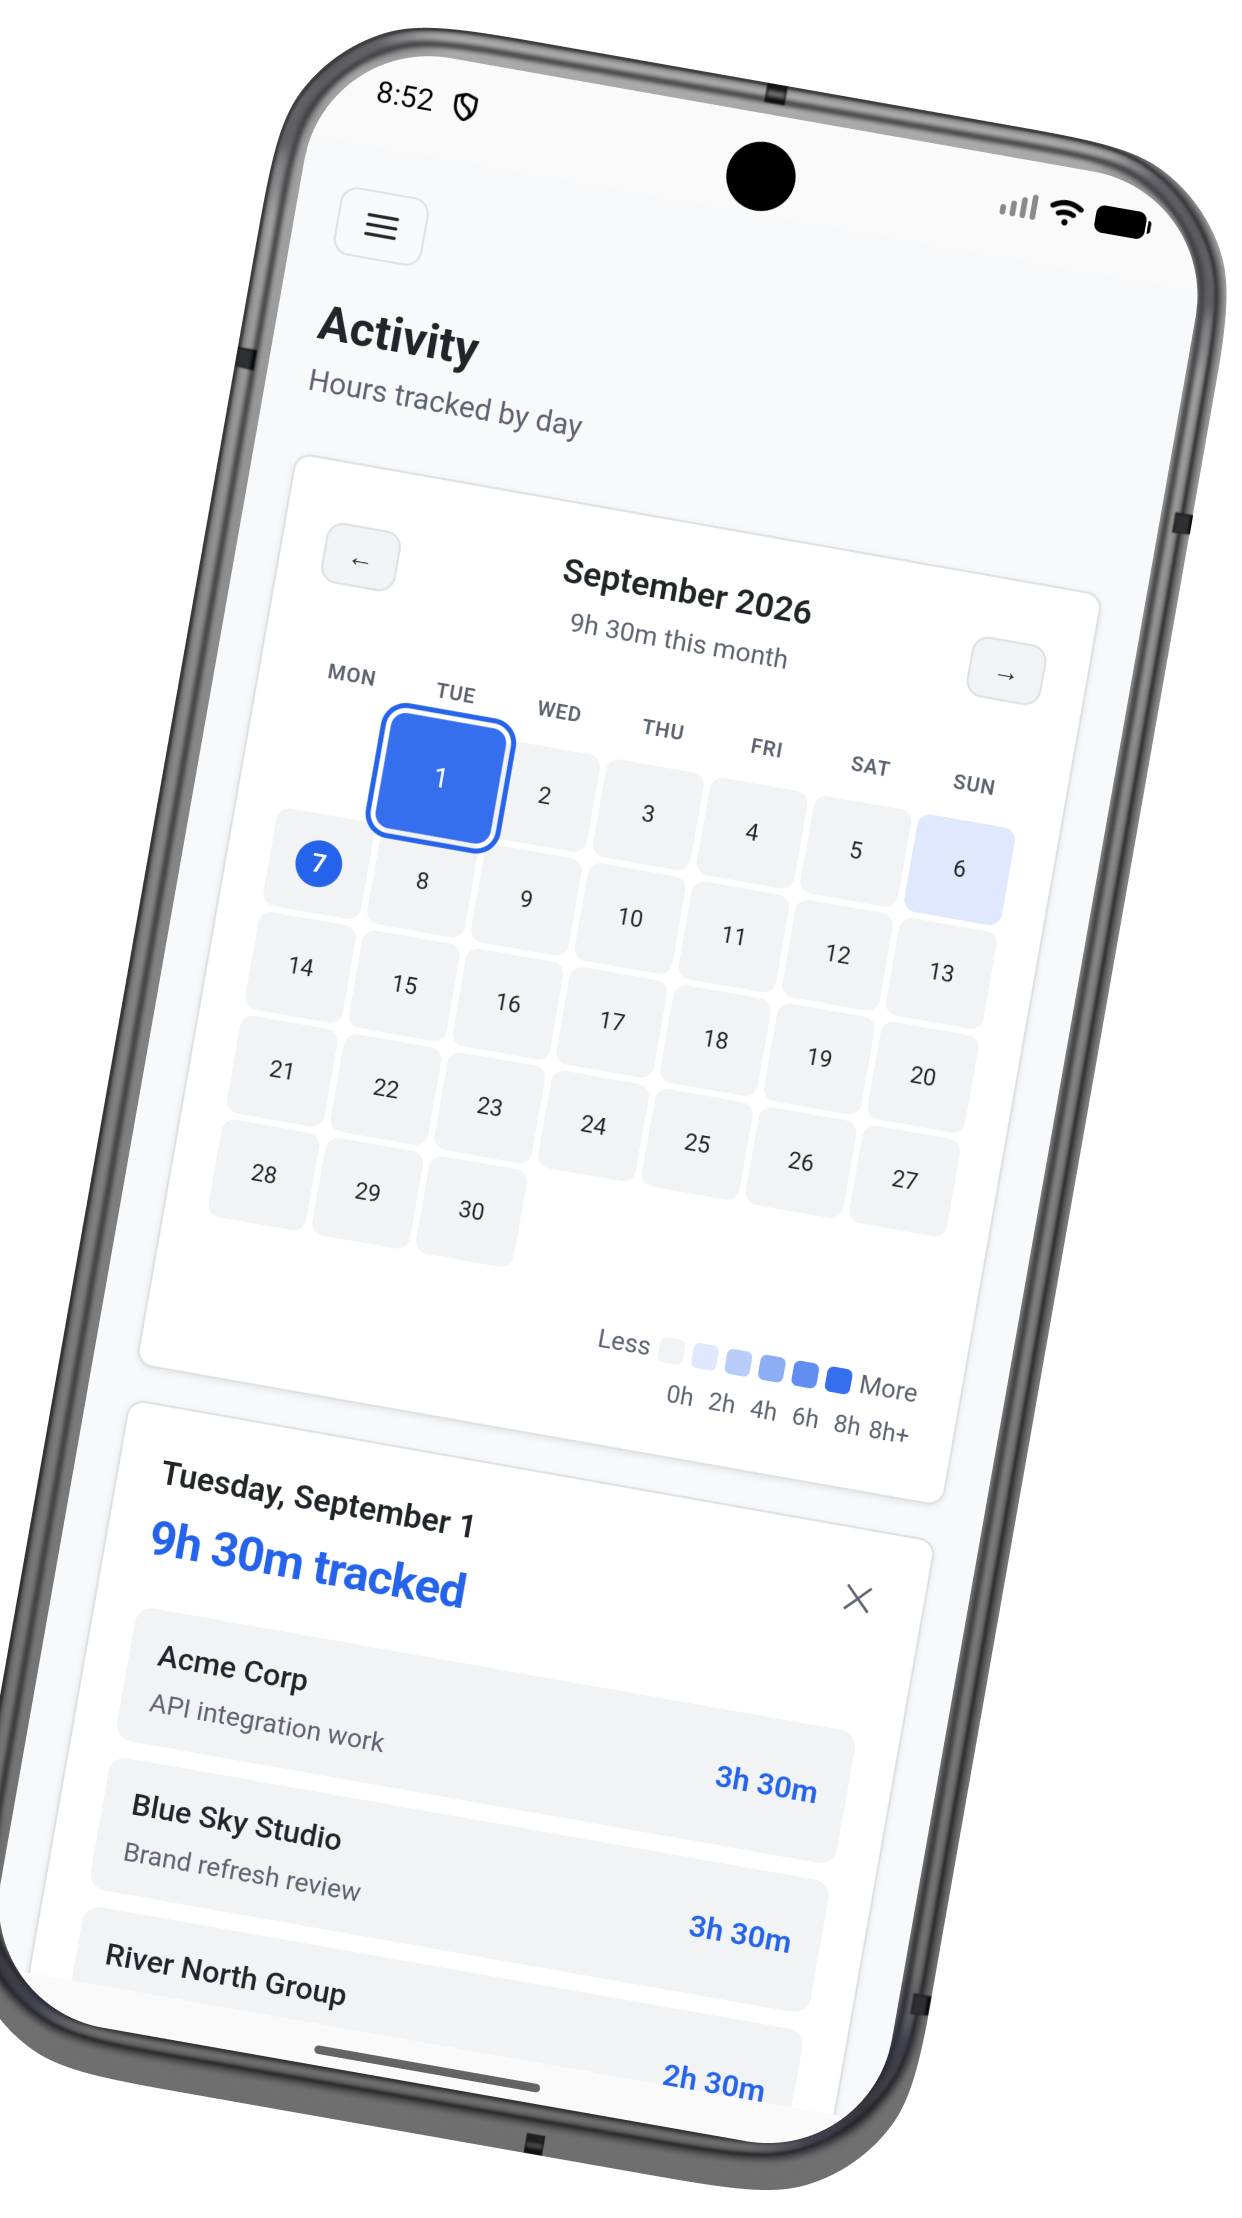
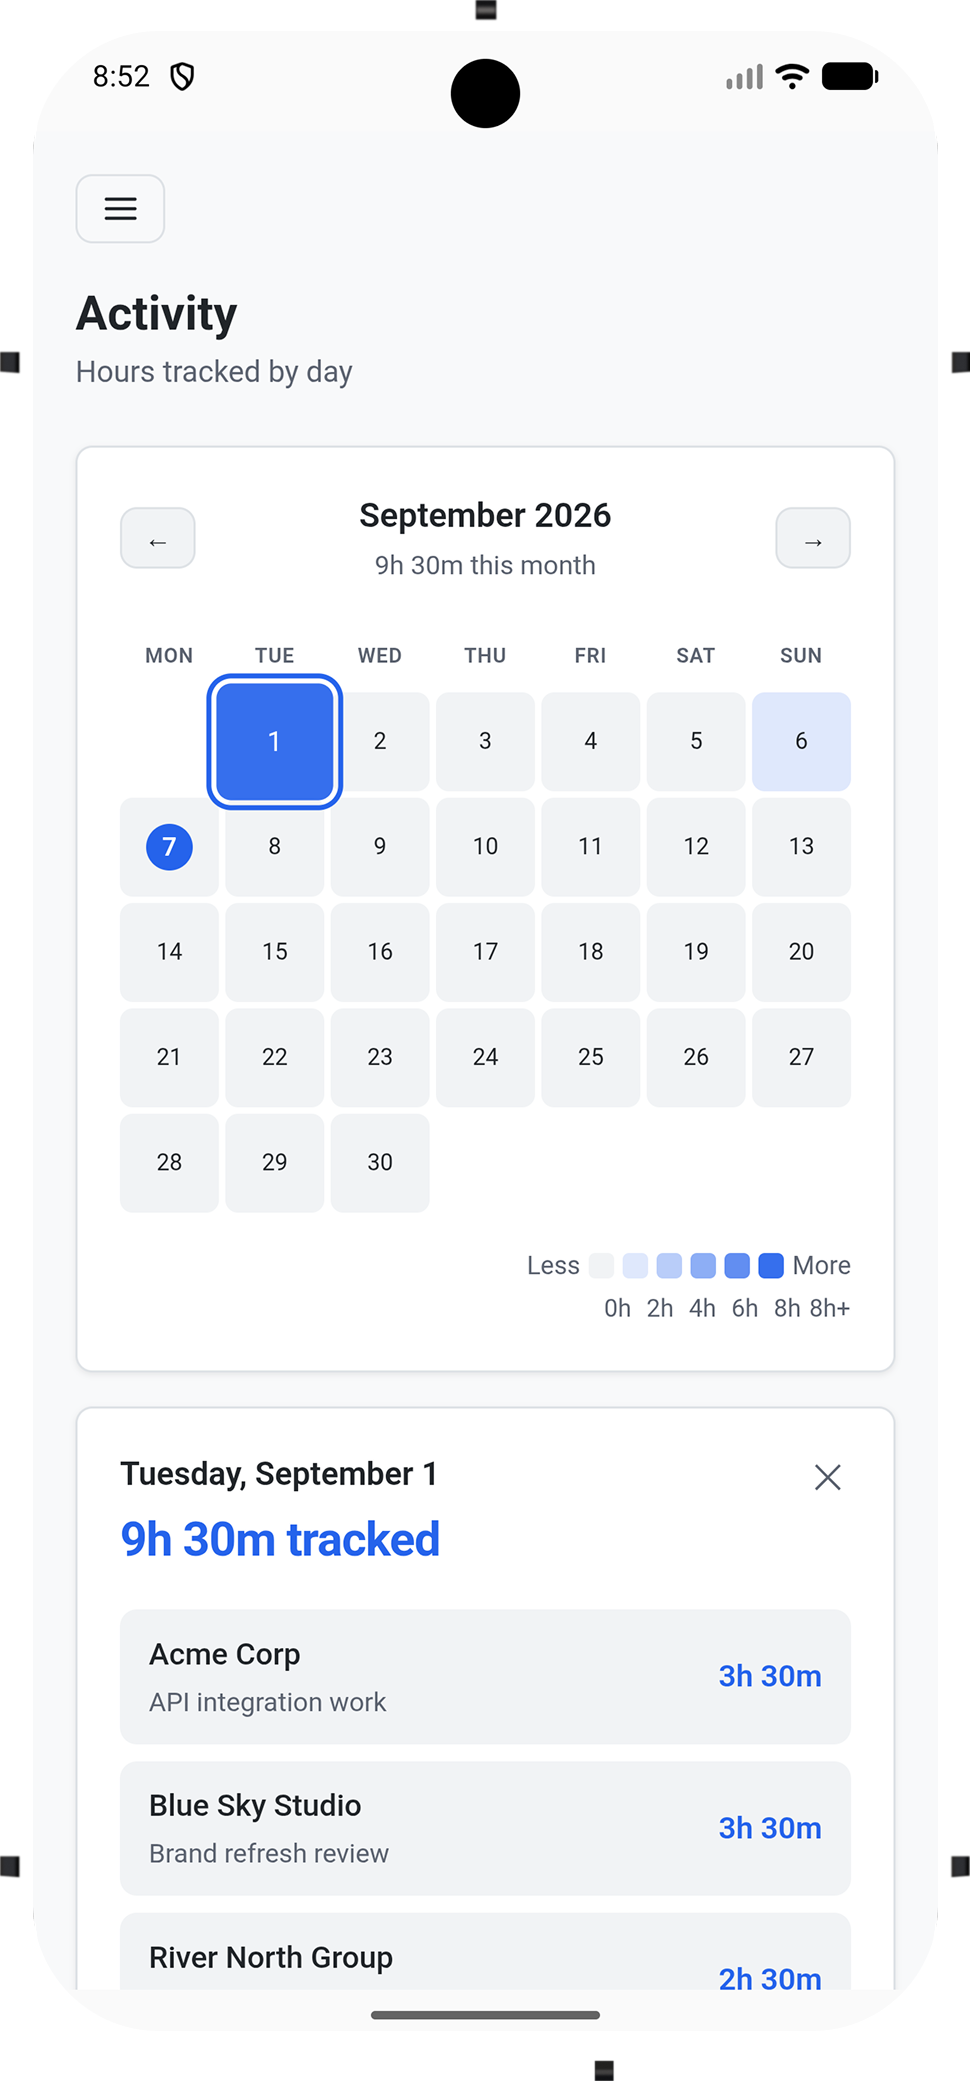
[Feature] Updated landing page styling and functionality
- Adjusted CSS transforms and filters for improved visual effects
- Removed unused section from Landing.jsx
- Updated button styles in landing email capture section

diff --git a/src/pages/Landing.css b/src/pages/Landing.css
@@ -784,12 +784,12 @@
 .landing-iphone-float {
   max-width: 260px;
   width: 100%;
-  transform: perspective(800px) rotateY(8deg) rotateX(3deg);
+  transform: perspective(600px) rotateY(16deg) rotateX(5deg);
   transition: transform 0.45s ease, box-shadow 0.45s ease;
 }
 
 .landing-iphone-float:hover {
-  transform: perspective(800px) rotateY(3deg) rotateX(1deg);
+  transform: perspective(600px) rotateY(8deg) rotateX(2deg);
 }
 
 @media (max-width: 640px) {
@@ -819,24 +819,28 @@
   max-width: 560px;
   width: 70%;
   min-width: 220px;
-  filter: drop-shadow(0 28px 56px rgba(0, 0, 0, 0.2));
-  transition: filter 0.45s ease;
+  transform: perspective(1400px) rotateY(-10deg) rotateX(4deg);
+  filter: drop-shadow(0 28px 56px rgba(0, 0, 0, 0.25));
+  transition: transform 0.45s ease, filter 0.45s ease;
 }
 
 .landing-ipad-watch-watch {
   max-width: 160px;
   width: 18%;
   min-width: 90px;
-  filter: drop-shadow(0 20px 40px rgba(0, 0, 0, 0.22));
-  transition: filter 0.45s ease;
+  transform: perspective(800px) rotateY(10deg) rotateX(4deg);
+  filter: drop-shadow(0 20px 40px rgba(0, 0, 0, 0.28));
+  transition: transform 0.45s ease, filter 0.45s ease;
 }
 
 .landing-ipad-watch-mockups:hover .landing-ipad-watch-ipad {
-  filter: drop-shadow(0 16px 36px rgba(0, 0, 0, 0.14));
+  transform: perspective(1400px) rotateY(-4deg) rotateX(2deg);
+  filter: drop-shadow(0 16px 36px rgba(0, 0, 0, 0.16));
 }
 
 .landing-ipad-watch-mockups:hover .landing-ipad-watch-watch {
-  filter: drop-shadow(0 12px 28px rgba(0, 0, 0, 0.16));
+  transform: perspective(800px) rotateY(4deg) rotateX(2deg);
+  filter: drop-shadow(0 12px 28px rgba(0, 0, 0, 0.18));
 }
 
 @media (max-width: 640px) {
@@ -933,12 +937,14 @@
 .landing-android-mockup {
   max-width: 320px;
   width: 100%;
-  filter: drop-shadow(0 32px 64px rgba(0, 0, 0, 0.22));
-  transition: filter 0.45s ease;
+  transform: perspective(900px) rotateX(6deg) rotateY(12deg);
+  filter: drop-shadow(0 32px 64px rgba(0, 0, 0, 0.28));
+  transition: transform 0.45s ease, filter 0.45s ease;
 }
 
 .landing-android-mockup:hover {
-  filter: drop-shadow(0 20px 48px rgba(0, 0, 0, 0.16));
+  transform: perspective(900px) rotateX(2deg) rotateY(4deg);
+  filter: drop-shadow(0 20px 48px rgba(0, 0, 0, 0.18));
 }
 
 @media (max-width: 640px) {
@@ -1182,11 +1188,15 @@
 .landing-email-capture {
   padding: 4rem 1.5rem;
   text-align: center;
-  border-top: 1px solid var(--border);
+  background: var(--accent);
+}
+
+.landing-email-capture .landing-section-title {
+  color: #fff;
 }
 
 .landing-email-sub {
-  color: var(--text-muted);
+  color: rgba(255, 255, 255, 0.8);
   font-size: 1rem;
   margin-bottom: 1.5rem;
 }
@@ -1204,26 +1214,35 @@
   flex: 1;
   min-width: 0;
   padding: 0.65rem 1rem;
-  border: 1px solid var(--border);
+  border: none;
   border-radius: 8px;
-  background: var(--surface);
-  color: var(--text);
+  background: rgba(255, 255, 255, 0.95);
+  color: #111;
   font-size: 0.95rem;
   outline: none;
 }
 
 .landing-email-input:focus {
-  border-color: var(--accent);
+  background: #fff;
+}
+
+.landing-email-capture .landing-btn-primary {
+  background: #fff;
+  color: var(--accent);
+}
+
+.landing-email-capture .landing-btn-primary:hover {
+  background: #f0f5ff;
 }
 
 .landing-email-success {
-  color: var(--success);
+  color: rgba(255, 255, 255, 0.9);
   font-size: 0.95rem;
   margin-top: 0.5rem;
 }
 
 .landing-email-error {
-  color: var(--error, #e53e3e);
+  color: rgba(255, 255, 255, 0.85);
   font-size: 0.85rem;
   margin-top: 0.5rem;
 }

diff --git a/src/pages/Landing.jsx b/src/pages/Landing.jsx
@@ -562,11 +562,6 @@ export default function Landing() {
         {emailStatus === 'error' && <p className="landing-email-error">Something went wrong — try again.</p>}
       </section>
 
-      <section className="landing-review">
-        <p className="landing-review-text">Love Tally? Leave a review on the App Store — it helps more than you know.</p>
-        <a href={`${APP_STORE_URL}?action=write-review`} target="_blank" rel="noopener noreferrer" className="landing-review-link">Write a review →</a>
-      </section>
-
       <footer className="landing-footer">
         <div className="landing-footer-inner">
           <div className="landing-footer-brand">
@@ -583,6 +578,7 @@ export default function Landing() {
               <a href={APP_STORE_URL} target="_blank" rel="noopener noreferrer">iOS App</a>
               <button onClick={() => setAndroidModalOpen(true)}>Android Beta</button>
               <a href="/demo" target="_blank" rel="noopener noreferrer">Live Demo</a>
+              <a href={`${APP_STORE_URL}?action=write-review`} target="_blank" rel="noopener noreferrer">Leave a review</a>
             </div>
             <div className="landing-footer-col">
               <h4>Account</h4>
